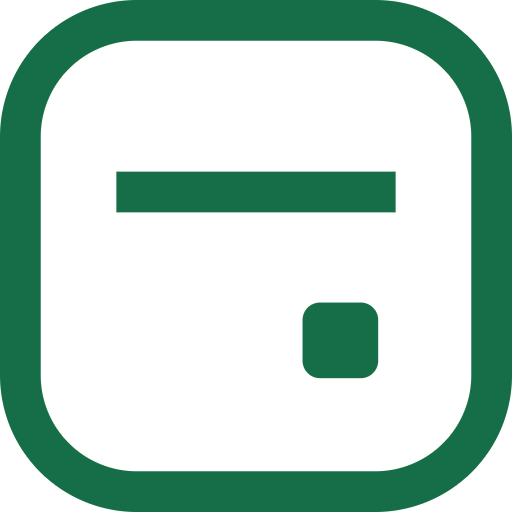
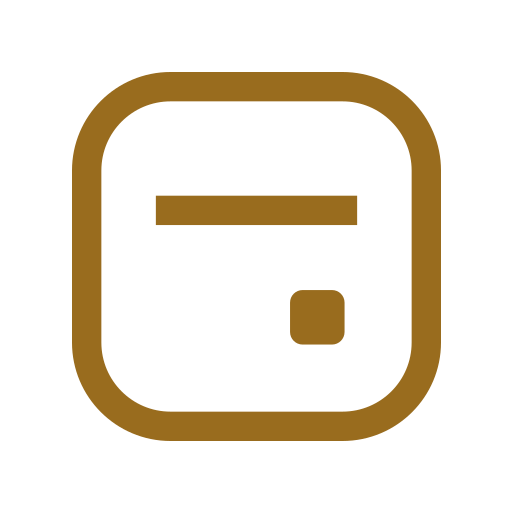
Switch PWA branding from green to gold
Manifest theme/background color, all icon sizes, and the favicon
now use the gold accent (#996C1E) instead of green.

diff --git a/app/layout.tsx b/app/layout.tsx
@@ -18,7 +18,7 @@ export const metadata: Metadata = {
 };
 
 export const viewport: Viewport = {
-  themeColor: "#156e47",
+  themeColor: "#996C1E",
 };
 
 export default function RootLayout({ children }: { children: React.ReactNode }) {
